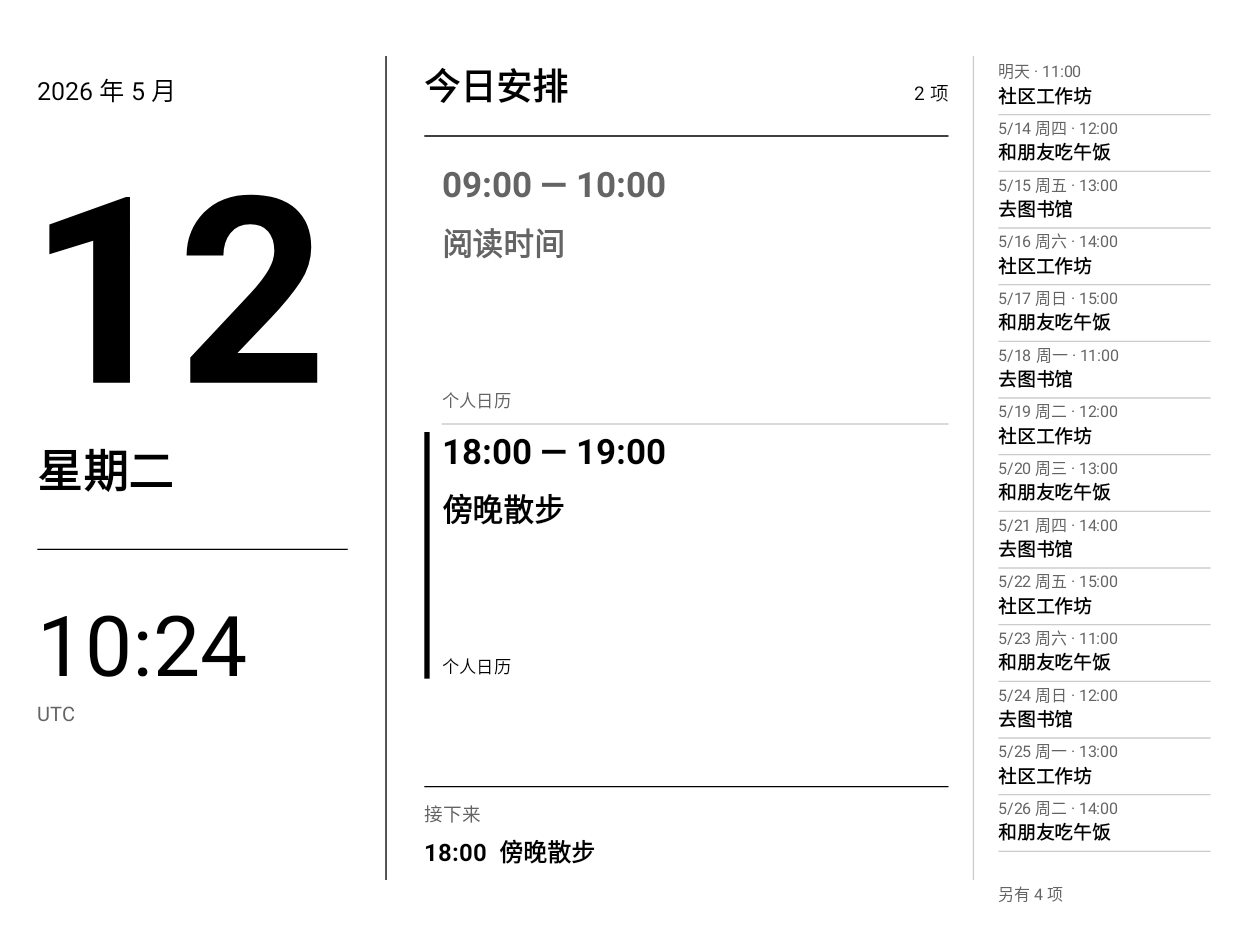
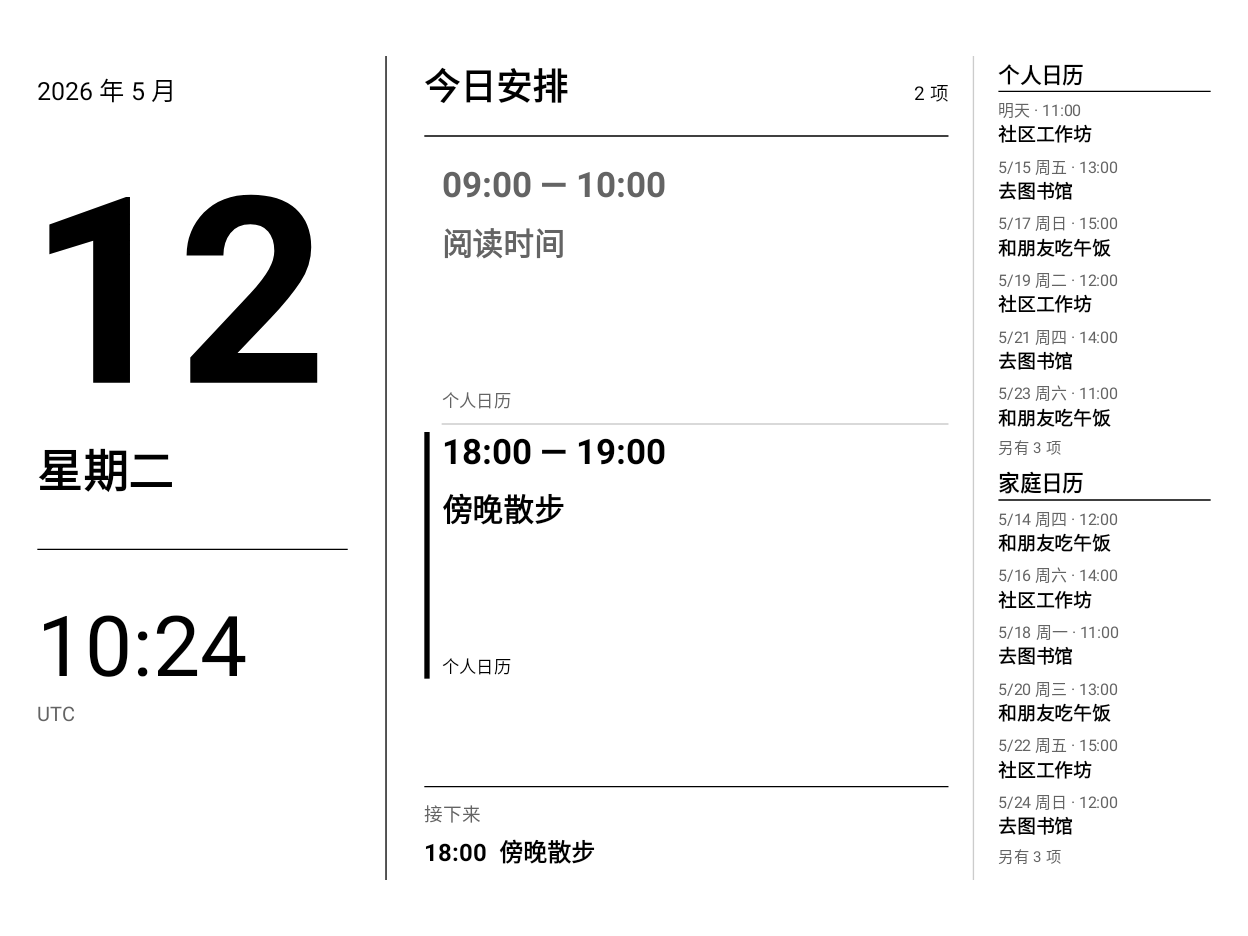
Introduce Daylight branding and grouped calendar display

Changed region(s): [[0.7812, 0.062, 0.9688, 0.9605]]

diff --git a/app/src/main/java/local/boox/calendarclock/ClockFace.java b/app/src/main/java/local/boox/calendarclock/ClockFace.java
@@ -23,6 +23,10 @@ import java.time.format.DateTimeFormatter;
 import java.time.format.TextStyle;
 import java.util.Locale;
 import java.util.TimeZone;
+import java.util.ArrayList;
+import java.util.LinkedHashMap;
+import java.util.List;
+import java.util.Map;
 
 final class ClockFace extends View {
     private static final int INK = Color.BLACK;
@@ -205,37 +209,67 @@ final class ClockFace extends View {
             text(canvas, s(R.string.upcoming), 36, box.left, top + 26, true, INK);
             top += 70;
         }
+        Map<String, List<Agenda.Event>> byCalendar = new LinkedHashMap<>();
+        for (Agenda.Event event : agenda.upcoming) {
+            byCalendar.computeIfAbsent(event.calendarId, key -> new ArrayList<>()).add(event);
+        }
+        List<List<Agenda.Event>> groups = new ArrayList<>(byCalendar.values());
+        int visibleGroups = Math.min(groups.size(), columns * Math.max(1, (int) ((box.bottom - top) / 240)));
         int shown = 0;
-        LocalDate tomorrow = now.toLocalDate().plusDays(1);
         for (int column = 0; column < columns; column++) {
             float x = box.left + column * (width + gap);
             float y = top;
-            while (shown < agenda.upcoming.size()) {
-                Agenda.Event event = agenda.upcoming.get(shown);
-                StaticLayout title = paragraph(event.title, 28, width, 2, true, INK);
-                float row = 34 + title.getHeight() + 18;
-                if (y + row > box.bottom - 20) break;
-                LocalDate beginDate = event.startDate(now.getZone());
-                LocalDate date = beginDate.isBefore(tomorrow) ? tomorrow : beginDate;
-                String pattern = date.getYear() == now.getYear() ? "M/d" : "yyyy/M/d";
-                String day = date.equals(tomorrow) ? s(R.string.tomorrow)
-                        : date.format(DateTimeFormatter.ofPattern(pattern, locale())) + " "
-                        + date.getDayOfWeek().getDisplayName(TextStyle.SHORT, locale());
-                String label = day + " · " + (event.allDay ? s(R.string.all_day)
-                        : beginDate.isBefore(tomorrow) ? s(R.string.ongoing) : time(event.begin, now.getZone()));
-                // Each StaticLayout shares this view's paint; restore its font before drawing it.
-                paragraph(canvas, label, 24, x, y, width, 1, false, MUTED);
-                font(28, true, INK);
-                drawParagraph(canvas, title, x, y + 34);
-                shown++;
-                if (shown < agenda.upcoming.size()) rule(canvas, x, x + width, y + row - 7, RULE);
-                y += row;
+            if (groups.size() == 1) {
+                if (shown < groups.get(0).size()) shown += drawUpcomingGroup(canvas, groups.get(0), shown,
+                        x, y, width, box.bottom, now, column == columns - 1);
+                continue;
+            }
+            int remaining = (visibleGroups - column + columns - 1) / columns;
+            for (int group = column; group < visibleGroups; group += columns) {
+                float bottom = y + (box.bottom - y) / remaining--;
+                drawUpcomingGroup(canvas, groups.get(group), 0, x, y, width, bottom, now, true);
+                y = bottom;
             }
         }
         if (agenda.upcoming.isEmpty()) paragraph(canvas,
                 s(agenda.errorMessage == 0 ? R.string.empty_upcoming : agenda.errorMessage),
                 28, box.left, top, box.width(), 2, false, MUTED);
-        if (agenda.upcoming.size() > shown) text(canvas, q(R.plurals.more_items, agenda.upcoming.size() - shown),
+        int hidden = 0;
+        for (int group = visibleGroups; group < groups.size(); group++) hidden += groups.get(group).size();
+        if (hidden > 0) text(canvas, q(R.plurals.more_items, hidden),
                 24, box.left, box.bottom + 30, false, MUTED);
+    }
+
+    private int drawUpcomingGroup(Canvas canvas, List<Agenda.Event> events, int start, float x,
+                                  float top, float width, float bottom, ZonedDateTime now, boolean showRemaining) {
+        String source = events.get(0).source;
+        paragraph(canvas, source == null || source.isEmpty() ? s(R.string.calendar) : source,
+                32, x, top, width, 1, true, INK);
+        rule(canvas, x, x + width, top + 43, INK);
+        float y = top + 58;
+        int index = start;
+        LocalDate tomorrow = now.toLocalDate().plusDays(1);
+        while (index < events.size()) {
+            Agenda.Event event = events.get(index);
+            StaticLayout title = paragraph(event.title, 28, width, 2, true, INK);
+            float row = 34 + title.getHeight() + 18;
+            if (y + row > bottom - 42) break;
+            LocalDate beginDate = event.startDate(now.getZone());
+            LocalDate date = beginDate.isBefore(tomorrow) ? tomorrow : beginDate;
+            String pattern = date.getYear() == now.getYear() ? "M/d" : "yyyy/M/d";
+            String day = date.equals(tomorrow) ? s(R.string.tomorrow)
+                    : date.format(DateTimeFormatter.ofPattern(pattern, locale())) + " "
+                    + date.getDayOfWeek().getDisplayName(TextStyle.SHORT, locale());
+            String label = day + " · " + (event.allDay ? s(R.string.all_day)
+                    : beginDate.isBefore(tomorrow) ? s(R.string.ongoing) : time(event.begin, now.getZone()));
+            paragraph(canvas, label, 24, x, y, width, 1, false, MUTED);
+            font(28, true, INK);
+            drawParagraph(canvas, title, x, y + 34);
+            index++;
+            y += row;
+        }
+        if (showRemaining && index < events.size()) text(canvas, q(R.plurals.more_items, events.size() - index),
+                23, x, y + 18, false, MUTED);
+        return index - start;
     }
 }

diff --git a/app/src/test/java/local/boox/calendarclock/CalendarActivityTest.java b/app/src/test/java/local/boox/calendarclock/CalendarActivityTest.java
@@ -3,6 +3,7 @@ package local.boox.calendarclock;
 import android.content.Intent;
 import android.graphics.Bitmap;
 import android.graphics.Canvas;
+import android.os.Looper;
 import android.view.View;
 import android.view.ViewGroup;
 import android.view.WindowManager;
@@ -14,15 +15,41 @@ import org.robolectric.RuntimeEnvironment;
 import org.robolectric.android.controller.ActivityController;
 import org.robolectric.annotation.Config;
 import org.robolectric.annotation.GraphicsMode;
+import org.robolectric.shadows.ShadowBuild;
 
 import java.io.File;
 import java.io.FileOutputStream;
+import java.time.Duration;
+import static org.robolectric.Shadows.shadowOf;
 import static org.junit.Assert.*;
 
 @RunWith(org.robolectric.RobolectricTestRunner.class)
 @Config(sdk = 28)
 @GraphicsMode(GraphicsMode.Mode.NATIVE)
 public class CalendarActivityTest {
+    @Test public void booxRenewsDisplayForTwoHoursAndCancelsRenewalOnPause() {
+        ShadowBuild.setManufacturer("ONYX");
+        Intent intent = new Intent(RuntimeEnvironment.getApplication(), CalendarActivity.class)
+                .putExtra("preview", true);
+        ActivityController<CalendarActivity> controller = Robolectric.buildActivity(CalendarActivity.class, intent);
+        try {
+            CalendarActivity activity = controller.create().start().resume().visible().get();
+            for (int i = 0; i < 120; i++) {
+                shadowOf(Looper.getMainLooper()).idleFor(Duration.ofMinutes(1));
+                assertEquals(0, activity.getWindow().getAttributes().flags & WindowManager.LayoutParams.FLAG_KEEP_SCREEN_ON);
+                shadowOf(Looper.getMainLooper()).idleFor(Duration.ofMillis(250));
+                assertTrue((activity.getWindow().getAttributes().flags & WindowManager.LayoutParams.FLAG_KEEP_SCREEN_ON) != 0);
+            }
+            shadowOf(Looper.getMainLooper()).idleFor(Duration.ofMinutes(1));
+            controller.pause();
+            shadowOf(Looper.getMainLooper()).idleFor(Duration.ofMinutes(2));
+            assertEquals(0, activity.getWindow().getAttributes().flags & WindowManager.LayoutParams.FLAG_KEEP_SCREEN_ON);
+            controller.resume();
+            assertTrue((activity.getWindow().getAttributes().flags & WindowManager.LayoutParams.FLAG_KEEP_SCREEN_ON) != 0);
+            controller.pause().stop().destroy();
+        } finally { controller.close(); }
+    }
+
     @Test public void landscapePreviewAndForegroundPowerLifecycle() throws Exception {
         render("en", "landscape", 1248, 936, "landscape.png");
     }

diff --git a/app/src/main/java/local/boox/calendarclock/CalendarActivity.java b/app/src/main/java/local/boox/calendarclock/CalendarActivity.java
@@ -41,6 +41,8 @@ public final class CalendarActivity extends Activity {
     private long lastLoad;
     private final Runnable changed = this::load;
     private final Runnable minute = this::tick;
+    private final Runnable renewDisplay = this::renewDisplay;
+    private final Runnable holdDisplay = this::holdDisplay;
     private final ContentObserver observer = new ContentObserver(handler) {
         @Override public void onChange(boolean selfChange) {
             if (resumed) { handler.removeCallbacks(changed); handler.postDelayed(changed, 500); }
@@ -96,7 +98,7 @@ public final class CalendarActivity extends Activity {
         super.onResume();
         resumed = true;
         immersive();
-        getWindow().addFlags(WindowManager.LayoutParams.FLAG_KEEP_SCREEN_ON);
+        holdDisplay();
         observeIfAllowed();
         load();
         scheduleMinute();
@@ -106,6 +108,8 @@ public final class CalendarActivity extends Activity {
         resumed = false;
         handler.removeCallbacks(minute);
         handler.removeCallbacks(changed);
+        handler.removeCallbacks(renewDisplay);
+        handler.removeCallbacks(holdDisplay);
         if (observing) { getContentResolver().unregisterContentObserver(observer); observing = false; }
         getWindow().clearFlags(WindowManager.LayoutParams.FLAG_KEEP_SCREEN_ON);
         super.onPause();
@@ -115,6 +119,24 @@ public final class CalendarActivity extends Activity {
         handler.removeCallbacksAndMessages(null);
         unregisterReceiver(timeChanged);
         super.onDestroy();
+    }
+
+    private void holdDisplay() {
+        if (!resumed) return;
+        getWindow().addFlags(WindowManager.LayoutParams.FLAG_KEEP_SCREEN_ON);
+        // BOOX can expire WindowManager's lock even with "keep running" enabled.
+        if ("ONYX".equalsIgnoreCase(Build.MANUFACTURER)) {
+            handler.removeCallbacks(renewDisplay);
+            handler.postDelayed(renewDisplay, 60_000);
+        }
+    }
+
+    private void renewDisplay() {
+        if (!resumed) return;
+        // Allow separate window traversals so the system releases and reacquires
+        // the lock. Its ON_AFTER_RELEASE flag keeps the display on in this gap.
+        getWindow().clearFlags(WindowManager.LayoutParams.FLAG_KEEP_SCREEN_ON);
+        handler.postDelayed(holdDisplay, 250);
     }
 
     @Override public void onWindowFocusChanged(boolean focused) {

diff --git a/app/src/main/java/local/boox/calendarclock/CalendarRepository.java b/app/src/main/java/local/boox/calendarclock/CalendarRepository.java
@@ -69,13 +69,13 @@ final class CalendarRepository {
             ContentUris.appendId(uri, from);
             ContentUris.appendId(uri, to);
             try (Cursor cursor = context.getContentResolver().query(uri.build(),
-                    new String[]{"title", "calendar_displayName", "begin", "end", "allDay"},
+                    new String[]{"title", "calendar_displayName", "begin", "end", "allDay", "calendar_id"},
                     selection.toString(), args.toArray(new String[0]), "begin ASC, end ASC, title ASC")) {
                 while (cursor != null && cursor.moveToNext()) {
                     String title = cursor.getString(0);
                     Agenda.Event event = new Agenda.Event(
                             title == null || title.trim().isEmpty() ? context.getString(R.string.untitled) : title,
-                            cursor.getString(1), cursor.getLong(2), cursor.getLong(3), cursor.getInt(4) != 0);
+                            cursor.getString(1), cursor.getLong(2), cursor.getLong(3), cursor.getInt(4) != 0, cursor.getString(5));
                     if (window.isToday(event)) result.today.add(event);
                     if (window.isUpcoming(event)) result.upcoming.add(event);
                 }

diff --git a/app/src/main/java/local/boox/calendarclock/DemoAgenda.java b/app/src/main/java/local/boox/calendarclock/DemoAgenda.java
@@ -10,12 +10,14 @@ final class DemoAgenda {
 
     static Agenda create(Context context) {
         Agenda result = new Agenda(NOW.toLocalDate(), NOW.getZone());
-        result.selectedCalendarCount = 1;
+        result.selectedCalendarCount = 2;
         String source = context.getString(R.string.demo_source);
+        String family = context.getString(R.string.demo_family_source);
         result.today.add(event(context.getString(R.string.demo_reading), source, 0, 9));
         result.today.add(event(context.getString(R.string.demo_walk), source, 0, 18));
         int[] titles = {R.string.demo_workshop, R.string.demo_lunch, R.string.demo_library};
-        for (int i = 0; i < 18; i++) result.upcoming.add(event(context.getString(titles[i % titles.length]), source, i + 1, 11 + i % 5));
+        for (int i = 0; i < 18; i++) result.upcoming.add(event(context.getString(titles[i % titles.length]),
+                i % 2 == 0 ? source : family, i + 1, 11 + i % 5));
         return result;
     }
 

diff --git a/app/src/main/java/local/boox/calendarclock/Agenda.java b/app/src/main/java/local/boox/calendarclock/Agenda.java
@@ -32,13 +32,19 @@ final class Agenda {
     static final class Event {
         final String title;
         final String source;
+        final String calendarId;
         final long begin;
         final long end;
         final boolean allDay;
 
         Event(String title, String source, long begin, long end, boolean allDay) {
+            this(title, source, begin, end, allDay, source);
+        }
+
+        Event(String title, String source, long begin, long end, boolean allDay, String calendarId) {
             this.title = title;
             this.source = source;
+            this.calendarId = calendarId;
             this.begin = begin;
             this.end = end;
             this.allDay = allDay;

diff --git a/README.md b/README.md
@@ -1,4 +1,6 @@
-# Calendar Clock
+<img src="docs/daylight-icon.svg" alt="朝夕 · Daylight" width="96" height="96">
+
+# Daylight · 朝夕
 
 A quiet, high-contrast Android calendar display for e-ink tablets and spare devices.
 
@@ -6,13 +8,14 @@ A quiet, high-contrast Android calendar display for e-ink tablets and spare devi
 
 ![Landscape preview with fictional events](docs/landscape.png)
 
-The date and clock sit beside today's agenda and a compact list of upcoming events. Landscape uses three columns; portrait stacks the sections. The upcoming list fills the available space with events from tomorrow through the next year.
+The date and clock sit beside today's agenda and a compact list of upcoming events. Landscape uses three columns; portrait stacks the sections. Upcoming events are grouped under their calendar names, with time-ordered entries in each group, from tomorrow through the next year.
 
 ## Features
 
 - Android 8.0+; English and Chinese follow the device language.
 - Device time zone, all-day events, overnight events, and recurring instances from Android's calendar provider.
 - Calendar selection and automatic, landscape, or portrait orientation.
+- Upcoming groups share the available space and show their own remaining-event counts. Calendars without upcoming events are omitted.
 - Minute-aligned clock updates. Calendar changes refresh automatically, with a periodic fallback.
 - Offline display of cached events, including on battery power.
 - One permission: **read calendars**. No network permission, passwords, account login, analytics, or calendar writes.
@@ -21,7 +24,7 @@ This is a foreground display app. It keeps the screen awake while open and relea
 
 ## Connect calendars
 
-Calendar Clock reads the **Android Calendar Provider**, not cloud services directly:
+Daylight reads the **Android Calendar Provider**, not cloud services directly:
 
 | Source | How it reaches the device calendar |
 | --- | --- |
@@ -31,9 +34,13 @@ Calendar Clock reads the **Android Calendar Provider**, not cloud services direc
 
 Install the app, allow calendar access, then tap the display for **Choose calendars**, sync help, orientation, or exit. Account credentials remain in your sync app. Wi-Fi is needed to fetch cloud changes, not to display the clock or cached plans. Manufacturer calendar apps may keep their own private database; seeing events there does not guarantee they are available to Android's calendar provider.
 
+Groups follow the actual device calendar IDs; their headings use the calendar names. They are ordered by each calendar's earliest upcoming event. The app does not infer an event's owner from its title. If a sync app exports several people's events into one calendar, they remain in one group here; separate them in the source calendar or sync configuration if needed.
+
 ## BOOX setup
 
-On BOOX, unfreeze Calendar Clock and your sync apps. For the clock, open **long-press app icon → Optimize → Other → Background activity → Always run**. On some firmware, the default time limit blocks Android's keep-screen-on request even when the app is visible. Wording varies by firmware.
+On BOOX, unfreeze Daylight and your sync apps. For the clock, open **long-press app icon → Optimize → Other → Background activity → Always run**. On some firmware, the default time limit blocks Android's keep-screen-on request even when the app is visible. Wording varies by firmware.
+
+Some BOOX firmware can also expire the screen wake lock after prolonged use despite this setting. On devices reporting manufacturer `ONYX`, the app periodically renews its foreground keep-screen-on request. Renewal stops when you leave the app; manual sleep and reboot behavior remain as described above. Renewal has been checked on a Note X with a short sleep timeout and simulated battery power. Overnight stability has not yet been verified.
 
 Turn off the frontlight manually if desired. The app does not change global brightness, sleep timeouts, or power settings. Keep background sync enabled for DAVx⁵/Outlook so new events reach the local calendar.
 
@@ -52,11 +59,37 @@ On Windows, use `gradlew.bat`. The Gradle wrapper pins its distribution checksum
 
 `./gradlew assembleRelease` produces an **unsigned**, non-debuggable release APK. Sign it with your own key using Android's signing tools before installing or distributing it. Debug APKs are for evaluation; CI debug signing identities can change between builds. Existing installs require a matching signing key to update. Signing keys and local SDK paths are never checked in.
 
-## Implementation
+## Architecture and refresh logic
 
-The app is native Java with a Canvas view and no runtime third-party libraries. `CalendarRepository` reads expanded event instances; `CalendarWindow` handles local-day and UTC all-day boundaries; `ClockFace` renders uniformly scaled text without stretching it; `CalendarActivity` owns permissions, lifecycle, refresh scheduling, and settings.
+The app is a single native Java activity with a Canvas view and no runtime third-party libraries. Sync runs in the user's calendar apps; Daylight has no server, background service, or cloud client.
 
-Calendar data is queried when the app opens, the provider changes, the day or time zone changes, or the fallback interval elapses. The minute timer redraws the clock without re-querying a year of events every minute. Tests cover date boundaries, daylight-saving changes, all-day events, layout bounds, and foreground power behavior. Robolectric's native Android rendering produces English, Chinese, portrait and wide-screen previews under `app/build/outputs/previews/`.
+```mermaid
+flowchart LR
+    Cloud[Calendar services] --> Sync[DAVx5 / Outlook / other sync apps]
+    Sync --> Provider[Android Calendar Provider]
+    Provider --> Repository[CalendarRepository: worker thread]
+    Repository --> Agenda[Agenda: in-memory snapshot]
+    Agenda --> Face[ClockFace: main-thread Canvas]
+    Activity[CalendarActivity] --> Repository
+    Activity --> Face
+```
+
+| Component | Responsibility |
+| --- | --- |
+| [`CalendarActivity`](app/src/main/java/local/boox/calendarclock/CalendarActivity.java) | Permissions, settings, lifecycle, refresh scheduling and foreground power requests. |
+| [`CalendarRepository`](app/src/main/java/local/boox/calendarclock/CalendarRepository.java) | Reads visible, selected calendars and expanded recurring instances on one worker thread; returns results to the main thread. Cancelled events are excluded. |
+| [`CalendarWindow`](app/src/main/java/local/boox/calendarclock/CalendarWindow.java) | Splits events into today and upcoming windows. Timed events use local midnights; all-day events use UTC calendar dates. Overnight events can appear in both windows. |
+| [`Agenda`](app/src/main/java/local/boox/calendarclock/Agenda.java) | Holds the calendar list, events, query window and read status in memory. |
+| [`ClockLayout`](app/src/main/java/local/boox/calendarclock/ClockLayout.java) | Defines date, today and upcoming regions for landscape and portrait. |
+| [`ClockFace`](app/src/main/java/local/boox/calendarclock/ClockFace.java) | Draws text, event status and calendar groups with uniform scaling and bounded line wrapping. |
+
+The clock redraws just after each minute boundary. Calendar reads happen on resume, after a calendar selection or device time change, and when a new local day or time zone is detected. Provider notifications are debounced by 500 ms; a 15-minute fallback reload covers missed notifications. While a read is running, further requests are combined into one follow-up read. Clock redraws and BOOX power renewal run independently of these reads.
+
+On `ONYX` devices, the foreground screen request is cleared about once a minute and restored 250 ms later, allowing the system to renew its window wake lock. Leaving the activity cancels the timers, unregisters the calendar observer and releases the screen request. This uses standard Android window flags and adds no wake-lock permission.
+
+Calendar events stay in the system provider and the app's in-memory snapshot. Only display orientation, excluded calendar IDs and permission-prompt state are saved in app preferences. Calendar read errors are displayed; the app cannot diagnose or repair upstream sync failures.
+
+Tests cover date boundaries, daylight-saving changes, all-day events, layout bounds, and foreground power behavior, including two hours of simulated BOOX renewal and cancellation during pause. Simulated time does not reproduce vendor firmware. Robolectric's native Android rendering produces English, Chinese, portrait and wide-screen previews under `app/build/outputs/previews/`.
 
 [Portrait preview](docs/portrait.png) · [Wide-screen preview](docs/wide-landscape.png)
 
